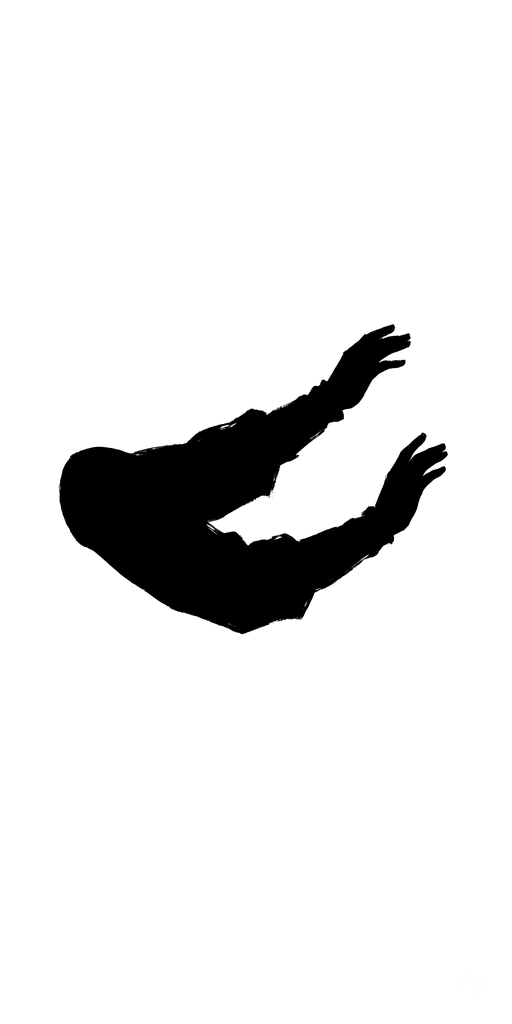
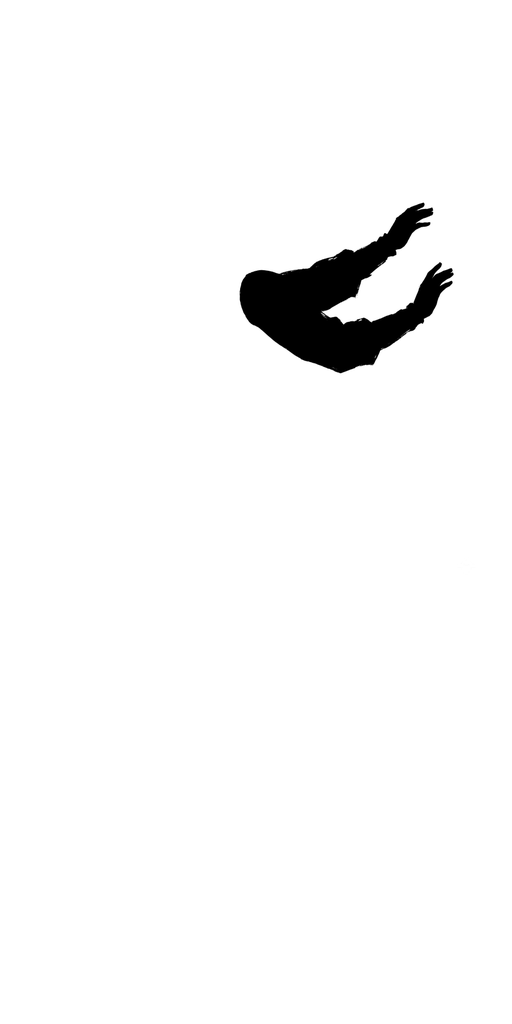
#171 [수정] 전수 팔 파츠를 몸통 캔버스 좌표로 재정렬 — 결함은 CSS 가 아니라 납품 PNG 의 좌표계였다 (T2) (#178)
## Summary

전수 화면(S5)에서 사부·제자의 팔 실루엣이 몸통보다 크고 어깨에서 떨어진 자리에 떠 있으며, 26° 회전이 어깨가 아닌 허공을
축으로 도는 것처럼 보이던 것을 고친다.

**CSS 는 결함이 아니다.** `.fig { aspect-ratio: 512/1024 }` + `.fig > .part {
inset: 0; background-size: contain; background-position: center bottom
}` 이라 네 장이 같은 512×1024 캔버스에 1:1 로 겹치고, 그 전제는 아트 계약과 일치한다. 결함은 납품된 팔 PNG
두 장이 **몸통 캔버스 좌표가 아니라 팔만 따로 크롭·확대된 그림**이라는 것이다. 판정 기준은 alpha≥128 **어깨 좌표
대조**다 — 사부 팔의 어깨 끝이 몸통 어깨보다 160px 뒤·110px 아래에, 제자는 팔 전체가 몸통 앞으로 밀려 있었다.
(팔 폭이 상체 폭을 넘는 것 자체는 뻗은 팔이면 정상이라 기준이 아니다 — 수정 후에도 사부 팔 폭 258 > 상체 174 다.
L5b Important #2 로 이 문장을 정정했다.)

그래서 고치는 자리를 자산으로 잡았다. 파츠별 오프셋·축척 토큰을 CSS 에 두는 형태는 자산 결함을 렌더 원장에 새기는 것이고
아트 교체 때 다시 어긋난다 — 계약 위반은 계약 쪽에서 닫는다.

Closes #171

## Changes

- **`assets/art/silhouettes/sil_master_demo_arm.png` ·
`sil_disciple_follow_arm.png`** — 512×1024 RGBA 캔버스를 유지한 채 팔 레이어를 축소·이동해
재저장. **원본에서 결정론적 아핀 1회**(`p' = s·p + (dx, dy)`), 재축소 누적 없음. 원본 RGB 가 전
픽셀 `(0,0,0)` 이라 실루엣이 알파에만 있으므로 **알파 채널만 `Image.LANCZOS` 로 1회 리샘플**한 뒤 정수
오프셋으로 paste 하고 RGB=0 으로 재합성했다(프리멀티플라이 헤일로 없음).

  | 파일 | 축척 s | 이동 (dx, dy) | 리샘플 | alpha≥128 bbox (전 → 후) |
  |---|---|---|---|---|
| `sil_master_demo_arm.png` | 307/512 = **0.599609** | **(10, 41)** |
LANCZOS | (37,272,465,702) → (32,204,289,462) |
| `sil_disciple_follow_arm.png` | 282/512 = **0.550781** | **(207, 24)**
| LANCZOS | (59,324,447,633) → (240,203,454,373) |

  축척·이동의 근거가 된 **어깨 실측**(alpha≥128, 캔버스 좌표):

  | 도형 | 몸통 어깨(목표) | 팔 어깨 끝(원본 기준점 A) | 재저장 후 어깨 |
  |---|---|---|---|
[…]

Changed region(s): [[0.0938, 0.1875, 0.9062, 0.625]]

diff --git a/index.html b/index.html
@@ -225,8 +225,9 @@
   --tm-glow-master-h: 204px;
   --tm-glow-pupil-w: 146px;
   --tm-glow-pupil-h: 162px;
-  /* 회전 중심은 어깨다 — 실루엣 캔버스(512x1024) 안의 비율이라 폭·높이가 바뀌어도 따라간다. */
-  --tm-arm-origin: 52% 34%;
+  /* 회전 중심은 제자 어깨다 — 실루엣 캔버스(512x1024) 안의 비율이라 폭·높이가 바뀌어도 따라가고,
+     사부 어깨는 x·y 가 모두 달라 한 토큰을 나눠 쓸 수 없다 (#171). */
+  --tm-pupil-arm-origin: 52% 28%;
   --tm-follow-angle: 26deg;
   /* 시범을 보는 시간과 팔이 맞아떨어지는 시간 — 한 연출의 두 구간이라 같은 자리에 둔다. */
   --tm-follow-delay: 1400ms;
@@ -684,8 +685,8 @@ button.ghost { background: transparent; }
   /* 배치는 개별 속성으로만 쓴다 — `background` 단축은 파츠마다 선언된 이미지를 none 으로 되돌린다 (#137). */
   background-position: center bottom; background-size: contain; background-repeat: no-repeat;
 }
-.fig > .part.arm { transform-origin: var(--tm-arm-origin); transition: transform var(--tm-follow-dur) ease-out; }
-.fig.following > .part.arm { transform: rotate(var(--tm-follow-angle)); }
+.fig.pupil > .part.arm { transform-origin: var(--tm-pupil-arm-origin); transition: transform var(--tm-follow-dur) ease-out; }
+.fig.pupil.following > .part.arm { transform: rotate(var(--tm-follow-angle)); }
 
 /* 무공 인장 (REQ-862·863) — 화면에서 유일하게 빛나는 것이고, 세로 조판이라 아래 목록이 부속이 된다. */
 .sigil {

diff --git a/docs/ai-log.md b/docs/ai-log.md
@@ -92,3 +92,4 @@
 | 09-03 03:5x | 이탈 계측 (#115) | Claude Code (Opus 5, 무인 워커) | 「종료 후 이탈은 abort 아님」을 무엇으로 판정하는가 — ⓐ 화면 전이 순서(결과 화면으로 갔으면 이미 끝난 것) ⓑ 판의 상태(`bout.resultLogged`) | **채택 (ⓑ 판 상태)** | ⓐ 는 화면 teardown 순서라는 **호출부의 실행 순서**에 정확성을 맡긴다 — 지금 무해한 것은 `ctx.go` 가 동기 teardown 을 하기 때문이고, 그 사실은 어디에도 고정돼 있지 않다. ⓑ 는 판이 열릴 때(`beginBout`) 되돌아가므로 「재진입 = 새 판」이 같은 한 축에서 함께 나온다. 더해 **승패**의 거부만 계약 위반 원장에 남겨, 이탈의 침묵(정상)과 완주의 침묵(판 하나가 분모에서 사라짐)이 표현에서도 갈리게 했다 |
 | 09-03 09:4x | 파견 투입 성 귀속 (#134) | Claude Code (Opus 5, 무인 워커) | 재진입 판의 `disciple_ranks` 를 언제 뜨는가 — ⓐ 로깅 시점에 현재 성을 읽기 ⓑ `currentMission` 이 재진입마다 `beginMission` 재호출 ⓒ 판이 열리는 자리(`dispatchWiring` 의 `beginBout`)에서 재스냅샷 | **채택 (ⓒ 판 단위 재스냅샷)** | ⓐ 는 파견 **도중**의 성 상승까지 섞어 「투입된 성」의 뜻을 깬다(승패가 실제보다 여문 성에 귀속된다). ⓑ 는 `foeSet`·`locked_until` 같은 「그 차수의 임무」 필드까지 재추첨해 같은 차수 재진입이 다른 임무가 되고, 리롤 방지(REQ-742)가 무너진다. ⓒ 만이 「차수 단위 = 조합·잠금 / 판 단위 = 투입 성」의 경계를 조문대로 갈라, #115 가 세운 「재진입 = 새 판」과 같은 한 축(`beginBout`)에서 함께 나온다 |
 | 09-03 09:4x | 파견 투입 성 귀속 (#134) | Claude Code (Opus 5, 무인 워커) | 값이 갈리는 것을 운영자가 어디서 보는가 — 판독기 `dispatch_by_stage` 항목에 `disciple_ranks` 를 싣고 출력 1줄에 노출 | **채택** | 값 결함은 항목의 **존재**가 아니라 **내용**이 틀리므로, 항목 수만 세는 판독으로는 재발이 관측되지 않는다. 조합(`foe_set`)만 실린 종전 출력은 「어느 조합을 어느 성으로 이겼는가」(REQ-744)의 절반만 말한다 — 성을 함께 실어야 그 문장이 판독 출력에서 완성된다. 필드 부재(구 판본 로그)는 `{?}` 로 값처럼 보이게 해, 없는 키를 통과로 접지 않는 판독기의 기존 기조와 맞췄다 |
+| 09-03 15:4x | 전수 팔 파츠 정렬 (#171) | Claude Code (Opus 5, 무인 워커) | 몸통과 어긋난 팔 레이어를 CSS 파츠별 오프셋·축척 토큰으로 보정할지, 납품 PNG 를 다시 저장할지 | **채택 (PNG 재저장 — Pillow 아핀 1회, AI 생성 원본은 재생성 없이 변환만)** | 어긋남의 소재가 자산이라 렌더 원장에서 보정하면 결함이 CSS 에 새겨지고 아트 교체 때 다시 어긋난다. 생성 AI 에 재프롬프트해 새 팔을 받는 선택지도 있었으나, 사부·제자 두 장의 결함이 **캔버스 좌표계 하나**(팔만 따로 크롭·확대)로 동일해 결정론적 아핀으로 닫히고, 재생성은 이미 승인된 실루엣 화풍을 다시 뽑기(비결정론)로 되돌린다. 몸통 어깨 알파 실측을 기준점으로 축척·이동을 잡아 **사부 512→307px (dx=10, dy=41) · 제자 512→282px (dx=207, dy=24)** — 재현의 열쇠는 반올림한 배율이 아니라 이 정수 목표폭이다. 실루엣이 알파에만 있어(원본 RGB 전 픽셀 0) **알파 채널만 LANCZOS 1회** 리샘플 후 정수 오프셋 paste, RGB 는 0 으로 재구성하고 캔버스 512x1024 를 유지한다. 재축소 누적이 없도록 변환은 항상 원본에서 한 번만 — 그래서 변환 스크립트가 아니라 이 수치가 SoT 다 (sfx 는 `sfx_recipes.json` 이 SoT 인 것과 반대 방향인데, 그쪽은 렌더러가 매번 산출물을 새로 만드는 생성 원장이고 이쪽은 이미 승인된 AI 생성 원본을 한 번 교정한 것이라 SoT 는 여전히 git 이력의 그 원본이다) |
